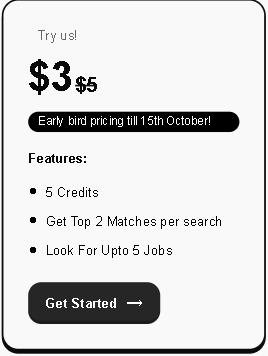
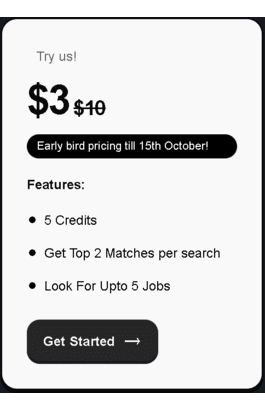
few addons

diff --git a/client/src/Homepage.jsx b/client/src/Homepage.jsx
@@ -132,7 +132,7 @@ const Homepage = () => {
         setUserDetailsData(currentUser);
         navigate("/signin"); // Redirect to the Buy component if the user is logged in
       } else {
-        userDetailsData(null);
+        setUserDetailsData(null);
         navigate("/");
       }
     });
@@ -182,9 +182,9 @@ const Homepage = () => {
       viewBox="0 0 24 24"
       fill="none"
       stroke="rgb(102, 102, 255)"
-      stroke-width="2"
-      stroke-linecap="round"
-      stroke-linejoin="round"
+      strokeWidth="2"
+      strokeLinecap="round"
+      strokeLinejoin="round"
       style="width: 100%; height: 100%;"
     >
       <circle cx="12" cy="12" r="10"></circle>
@@ -216,16 +216,12 @@ const Homepage = () => {
               alignItems: "center",
             }}
           >
-            <div className="blank"></div>
+            <div></div>
             <img
+              onClick={() => navigate("/")}
               src={logo}
               alt=""
-              width="200px"
-              style={{
-                marginBottom: "-120px",
-                marginLeft: "120px",
-                marginTop: "-80px",
-              }}
+              className="bfa-home-logo"
             />
             <div style={{ display: "flex", gap: "4px" }}>
               <button
@@ -322,7 +318,12 @@ const Homepage = () => {
                 </div>
 
                 <div className="button-section">
-                  <a className="claim-button-top">
+                  <a
+                    onClick={() => {
+                      navigate("/auth");
+                    }}
+                    className="claim-button-top"
+                  >
                     {/* <div className="btnimgcon">
                       <img
                         height="100%"
@@ -519,10 +520,10 @@ const Homepage = () => {
                     height="24"
                     viewBox="0 0 24 24"
                     fill="none"
-                    stroke="rgb(102, 102, 255)"
-                    stroke-width="2"
-                    stroke-linecap="round"
-                    stroke-linejoin="round"
+                    stroke="white"
+                    strokeWidth="2"
+                    strokeLinecap="round"
+                    strokeLinejoin="round"
                     style={{
                       width: "100px",
                       height: "100px",
@@ -544,10 +545,10 @@ const Homepage = () => {
                     height="24"
                     viewBox="0 0 24 24"
                     fill="none"
-                    stroke="rgb(102, 102, 255)"
-                    stroke-width="2"
-                    stroke-linecap="round"
-                    stroke-linejoin="round"
+                    stroke="white"
+                    strokeWidth="2"
+                    strokeLinecap="round"
+                    strokeLinejoin="round"
                     style={{
                       width: "100px",
                       height: "100px",
@@ -570,10 +571,10 @@ const Homepage = () => {
                     height="24"
                     viewBox="0 0 24 24"
                     fill="none"
-                    stroke="rgb(102, 102, 255)"
-                    stroke-width="2"
-                    stroke-linecap="round"
-                    stroke-linejoin="round"
+                    stroke="white"
+                    strokeWidth="2"
+                    strokeLinecap="round"
+                    strokeLinejoin="round"
                     style={{
                       width: "100px",
                       height: "100px",

diff --git a/client/src/components/AuthPage.jsx b/client/src/components/AuthPage.jsx
@@ -1,7 +1,14 @@
 import React, { useEffect, useState } from "react";
 import { useLocation, useNavigate } from "react-router-dom";
 import { auth, db } from "./config/firebase"; // Ensure this path is correct
-import { getFirestore, addDoc, collection, getDocs } from "firebase/firestore";
+import {
+  getFirestore,
+  addDoc,
+  collection,
+  getDocs,
+  doc,
+  setDoc,
+} from "firebase/firestore";
 import {
   createUserWithEmailAndPassword,
   signInWithEmailAndPassword,
@@ -40,20 +47,53 @@ export default function AuthPage() {
   const db = getFirestore();
   const collectionRef = collection(db, "users");
 
+  // const saveDataToFirebase = async () => {
+  //   try {
+  //     // Check if the user is authenticated
+  //     const user = auth.currentUser;
+  //     if (!user) {
+  //       console.error("User is not authenticated. Cannot save data.");
+  //       return;
+  //     }
+
+  //     // Add data to the Firestore collection
+  //     const docRef = await addDoc(collectionRef, {
+  //       credits: credits,
+  //       email: email,
+  //       name: name,
+  //       plan: plan,
+  //     });
+  //     console.log("Document written with ID: ", docRef.id);
+  //   } catch (err) {
+  //     console.error("Error adding document: ", err);
+  //   }
+  // };
   const saveDataToFirebase = async () => {
     try {
-      const docRef = await addDoc(collectionRef, {
+      // Check if the user is authenticated
+      const user = auth.currentUser;
+      if (!user) {
+        console.error("User is not authenticated. Cannot save data.");
+        return;
+      }
+
+      // Use the user's UID as the document ID
+      const userDocRef = doc(collectionRef, user.uid);
+
+      // Add data to the Firestore document
+      await setDoc(userDocRef, {
         credits: credits,
         email: email,
         name: name,
         plan: plan,
       });
-      console.log(email, name, plan, credits);
+      console.log(
+        "Document successfully written with the user's UID as the document ID."
+      );
     } catch (err) {
-      console.error(err);
+      console.error("Error adding document: ", err);
     }
   };
-
   useEffect(() => {
     const getUserData = async () => {
       try {
@@ -75,18 +115,14 @@ export default function AuthPage() {
     setError("");
 
     if (isLogin) {
-      // Firebase login logic
       try {
         await signInWithEmailAndPassword(auth, email, password);
         alert("Login successful!");
-        navigate("/signin", {
-          state: { userData: userData },
-        });
+        navigate("/signin", { state: { userData: userData } });
       } catch (error) {
         setError("Incorrect email or password. Please try again.");
       }
     } else {
-      // Firebase signup logic
       if (password !== confirmPassword) {
         setError("Passwords do not match.");
         return;
@@ -97,14 +133,14 @@ export default function AuthPage() {
       }
       try {
         await createUserWithEmailAndPassword(auth, email, password);
-        const user = auth.currentUser;
-        // Save user data to Firestore
-        await saveDataToFirebase(); // Save user data on signup
+        // Call saveDataToFirebase function after signup is successful
+        await saveDataToFirebase();
         alert(
           "Signup successful! Please check your email to verify your account."
         );
         setIsLogin(true);
       } catch (error) {
+        console.error("Error during signup:", error);
         setError("Error during signup. Please try again.");
       }
     }

diff --git a/client/src/App.css b/client/src/App.css
@@ -284,6 +284,13 @@
   font-weight: 700;
   font-family: "Fuzzy Bubbles";
 }
+.bfa-home-logo {
+  margin-bottom: -120px;
+  margin-left: 120px;
+  margin-top: -80px;
+  width: 200px;
+  z-index: 100;
+}
 .auth-btn {
   align-items: center;
   background-color: white;
@@ -590,7 +597,7 @@
     gap: 48px;
   }
   .hero-section {
-    padding: 48px 32px 0;
+    padding: 48px 32px 12px;
   }
   .paraOne {
     font-size: 20px;
@@ -617,7 +624,7 @@
 
 @media (max-width: 809px) {
   .hero-section {
-    padding: 48px 16px 100px;
+    padding: 48px 16px 25px;
   }
   .btnimgcon {
     width: 28px;
@@ -661,8 +668,15 @@
   }
 }
 
-@media (max-width: 480px) {
-  .launcher {
-    display: none;
+@media (max-width: 500px) {
+  .bfa-home-logo {
+    width: 150px;
+    margin-left: 0;
+  }
+  .auth-btn {
+    padding: 5px 10px;
+    font-size: 12px;
+    font-weight: bold;
+    border-radius: 12px;
   }
 }

diff --git a/client/src/components/BrandContainer.jsx b/client/src/components/BrandContainer.jsx
@@ -7,10 +7,7 @@ const BrandContainer = ({ width, imgUrl, ar }) => {
     <>
       <li>
         <div className="li-container">
-          <div
-            style={{ width: width, aspectRatio: ar / "1" }}
-            className="brand-container"
-          >
+          <div style={{ width: width }} className="brand-container">
             <Brand imgUrl={imgUrl} />
           </div>
         </div>

diff --git a/client/index.html b/client/index.html
@@ -2,9 +2,9 @@
 <html lang="en">
   <head>
     <meta charset="UTF-8" />
-    <link rel="icon" type="image/svg+xml" />
+    <link rel="icon" type="image/svg+xml" href="/bfalogo.png" />
     <meta name="viewport" content="width=device-width, initial-scale=1.0" />
-    <title>SupaFast</title>
+    <title>BossFinderAI</title>
   </head>
   <body>
     <div id="root"></div>

diff --git a/client/src/components/FAQ.jsx b/client/src/components/FAQ.jsx
@@ -73,7 +73,7 @@ const FAQ = () => {
             }}
           >
             {faqs.map((faq, index) => (
-              <div className="left-faq">
+              <div key={faq.question} className="left-faq">
                 <Quescontainer
                   key={index}
                   isEmail={faq.isEmail}

diff --git a/client/src/components/Signin.jsx b/client/src/components/Signin.jsx
@@ -451,7 +451,7 @@ export default function Signin() {
                           textDecoration: "line-through",
                         }}
                       >
-                        $5
+                        $10
                       </span>
                     </div>
                     <div

diff --git a/client/src/components/Pricing.jsx b/client/src/components/Pricing.jsx
@@ -72,7 +72,7 @@ const Pricing = () => {
                           textDecoration: "line-through",
                         }}
                       >
-                        $5
+                        $10
                       </span>
                     </div>
                     <div

diff --git a/client/src/components/Slider.jsx b/client/src/components/Slider.jsx
@@ -42,7 +42,6 @@ const Slider = () => {
             : "350px"
         }`,
 
-        height: "550px",
         // margin: "100px",
       }}
     >
